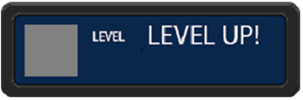
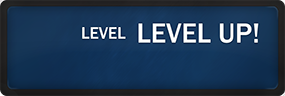
new default themes

diff --git a/Helpers/GraphicsHelper.cs b/Helpers/GraphicsHelper.cs
@@ -57,7 +57,7 @@ namespace DiscordBot.Helpers
                     }
                     using (var nameFont = new Font("Arial", 18, FontStyle.Bold))
                     {
-                        g.DrawString(name, nameFont, Brushes.White, 128, 33);
+                        g.DrawString(name, nameFont, Brushes.White, 125, 33);
                     }
                 }
 
@@ -92,7 +92,7 @@ namespace DiscordBot.Helpers
                     }
                     using (var nameFont = new Font("Arial", 18, FontStyle.Bold))
                     {
-                        g.DrawString(name, nameFont, Brushes.White, 115, 20);
+                        g.DrawString(name, nameFont, Brushes.White, 111, 20);
                     }
                 }
 
@@ -115,7 +115,7 @@ namespace DiscordBot.Helpers
                     g.DrawImage(image, 0, 0, 1054, 301);
                     using (var penFont = new Font("Arial", 50, FontStyle.Bold))
                     {
-                        g.DrawString(penGain.ToString() + " PEN", penFont, Brushes.White, 525, 107);
+                        g.DrawString(penGain.ToString() + " PEN", penFont, Brushes.White, 525, 140);
                     }
                 }
 
